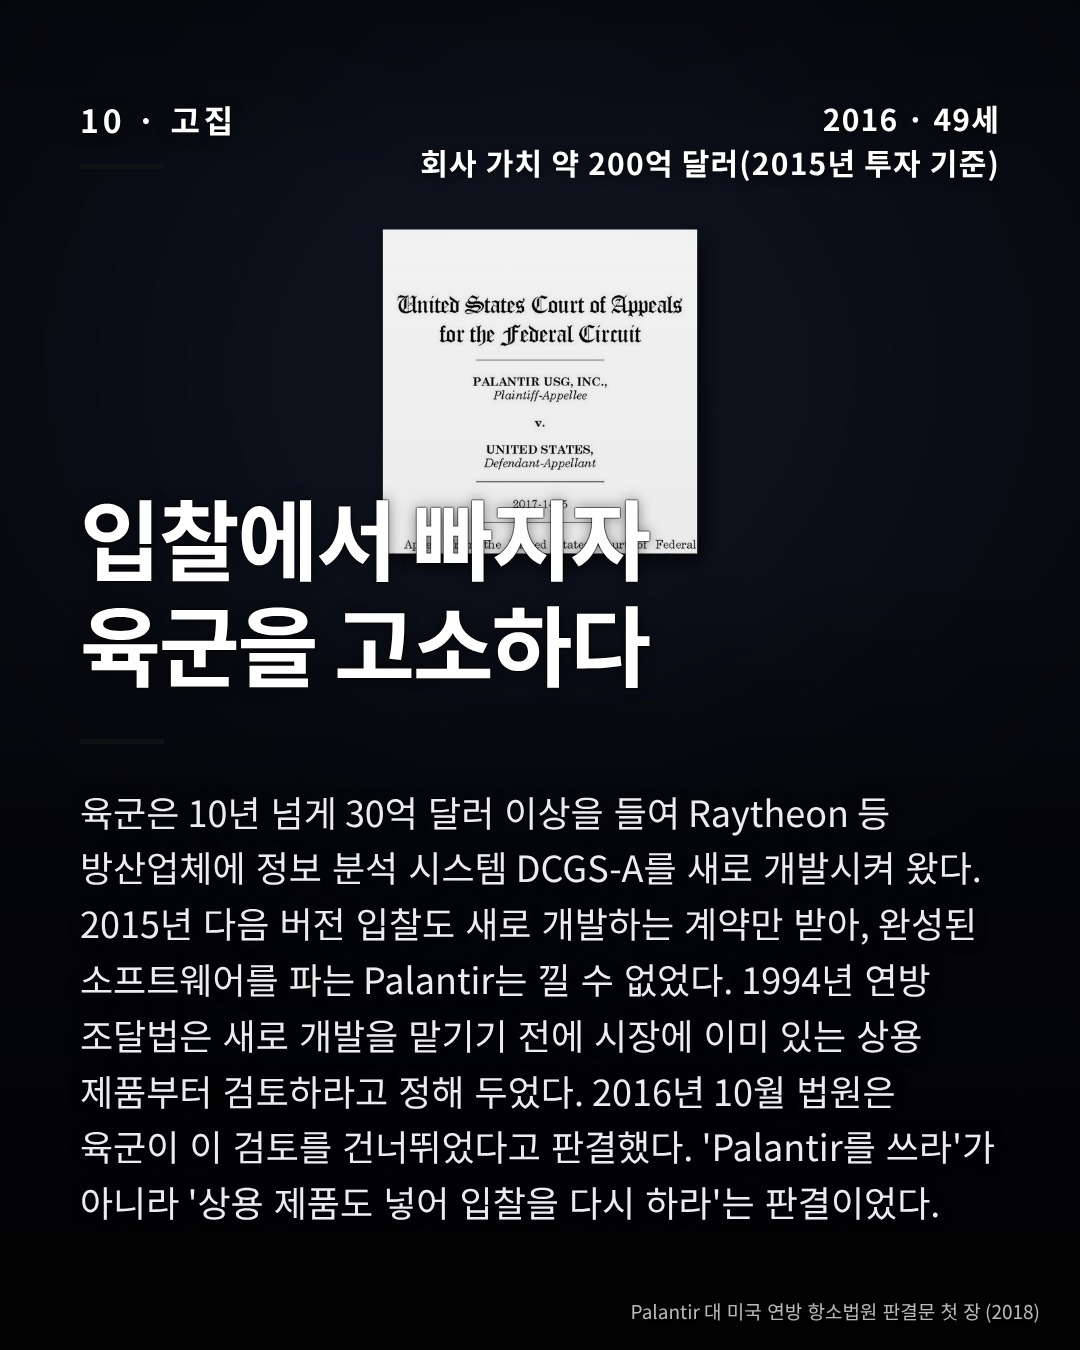
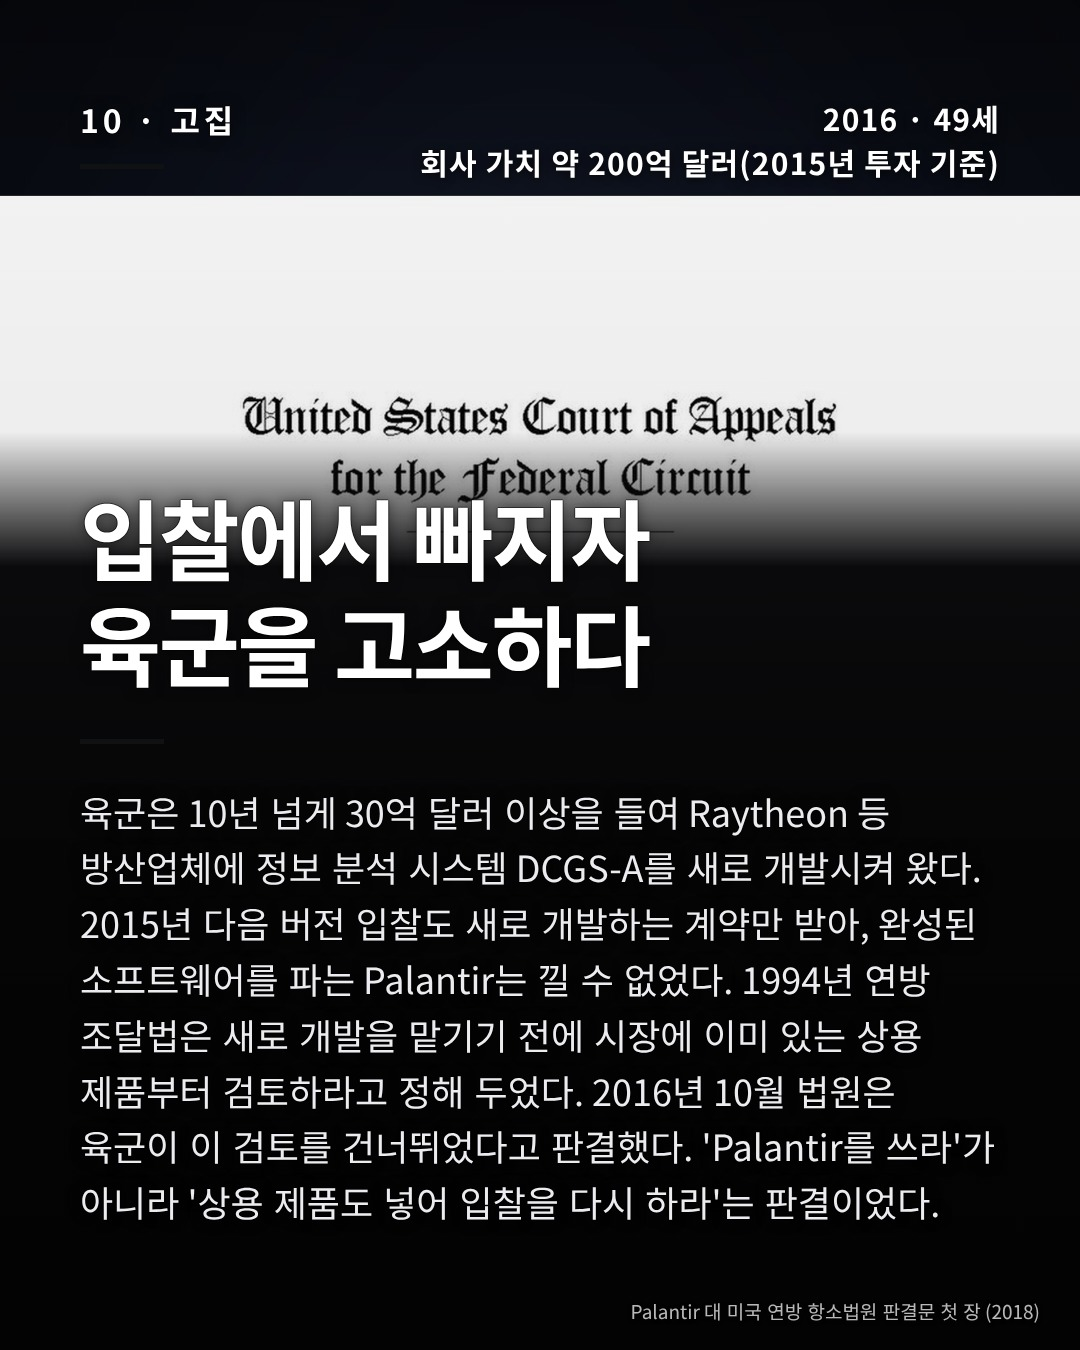
메인 사진 좌우 꽉 채우기: 카프 11·16, PayPal 14, 피터 틸 08, KFC 08 키움, SpaceX 11·16 제목 두 줄. render.py가 4:5 합성 사진 폭 90% 미만이면 멈춤(photo_small 예외)
Claude-Session: https://claude.ai/code/session_0174UmVv68rbzVpAwmwDmjms

Changed region(s): [[0.0, 0.1244, 1.0, 0.4356]]

diff --git a/render.py b/render.py
@@ -187,6 +187,15 @@ def main(path):
               return null; }""")
             if bad:
                 sys.exit(f"{i:02d}장 레이아웃 문제: {bad}. 본문·제목을 줄이고 다시 렌더")
+            if s.get("photo") and not s.get("photo_small") and s.get("type") != "stats":   # 11/15 사용자: 스티커가 아닌 메인 사진은 좌우 끝까지 꽉 채움
+                try:
+                    from PIL import Image
+                    im = Image.open(path.parent / s["photo"]).convert("L")
+                    bb = im.point(lambda v: 255 if v > 45 else 0).getbbox()
+                    if abs(im.width / im.height - 0.8) < 0.02 and bb and (bb[2] - bb[0]) < im.width * 0.9:   # 4:5 합성(어두운 배경 위 배치)만 검사, 원본 사진은 화면을 꽉 채워 깔림
+                        sys.exit(f"{i:02d}장 메인 사진이 좌우를 다 채우지 않음(내용 폭 {(bb[2]-bb[0])*100//im.width}%). 좌우 끝까지 키우고 다시 렌더 (로고만 놓는 장 등 예외는 photo_small: true)")
+                except ImportError:
+                    pass
             if s.get("photo") and not s.get("photo_note"):   # 11/14 사용자: 사진 있는 모든 장에 사진 설명(작은 글씨)
                 sys.exit(f"{i:02d}장에 photo_note(사진 설명)가 없음. 사진 설명을 넣고 다시 렌더 (11/15 사용자: 빠지면 절대 안 됨)")
             pg.screenshot(path=str(out / f"{i:02d}.png"))
